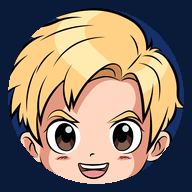
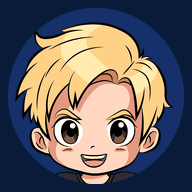
brand: more air around the face (15% wider crop, fists masked out) so the circle no longer clips hair or ears; the gauntlet illustration removed from the universe section
The avatar, home-screen icons and Colosseum logo are rebuilt from the same
crop; sizes stay small (face 11 KB, icons 11/38 KB). VenueBranding gains the
orderUrl field it was already read with, so tsc passes again.

diff --git a/apps/web/src/components/Ecosystem.tsx b/apps/web/src/components/Ecosystem.tsx
@@ -25,20 +25,7 @@ export default function Ecosystem() {
   ];
 
   return (
-    <section className="relative mx-auto max-w-6xl px-5 py-14 sm:px-6 md:py-20">
-      {/* The universe's own illustration, a gauntlet holding the phone with
-          the SVU mark: the door from the street into the rest. Desktop only,
-          off to the side, so the cards keep their room. */}
-      <img
-        src="/brand/svu-hand.webp"
-        alt=""
-        aria-hidden
-        width={564}
-        height={640}
-        loading="lazy"
-        decoding="async"
-        className="pointer-events-none absolute -left-6 top-10 hidden w-56 opacity-90 lg:block xl:w-64"
-      />
+    <section className="mx-auto max-w-6xl px-5 py-14 sm:px-6 md:py-20">
       <div className="text-center">
         {/* The universe's own mark — the registered SuperVictor logo — sits
             here, where the universe is the subject. */}

diff --git a/apps/web/src/components/VenueContact.tsx b/apps/web/src/components/VenueContact.tsx
@@ -21,6 +21,7 @@ export interface VenueBranding {
   instagram?: string;
   facebook?: string;
   website?: string;
+  orderUrl?: string;
 }
 
 /**
